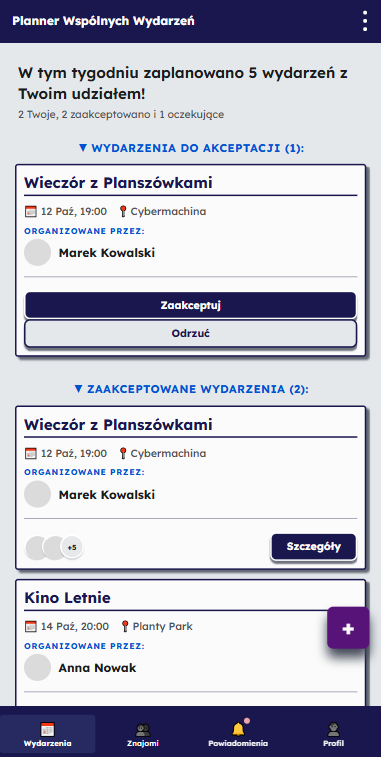
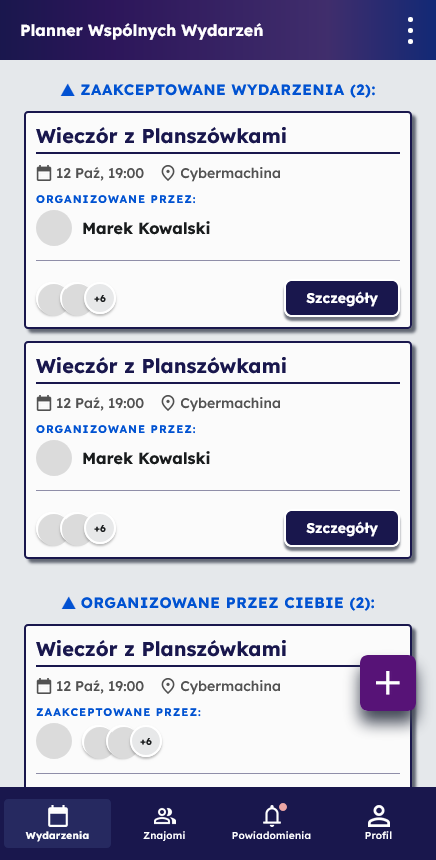
updated readme and minor changes

diff --git a/src/screens/auth/RegisterScreen.tsx b/src/screens/auth/RegisterScreen.tsx
@@ -99,6 +99,9 @@ export default function RegisterScreen({ navigation }: Props) {
                     placeholder="••••••••"
                     isPassword
                   />
+                  <Text style={styles.passwordHint}>
+                    Hasło musi zawierać co najmniej 1 dużą literę, cyfrę i znak specjalny.
+                  </Text>
                   <Input
                     label="Potwierdź hasło"
                     value={confirmPassword}
@@ -224,6 +227,13 @@ const styles = StyleSheet.create({
     elevation: 4,
   },
   form: { gap: 24 },
+  passwordHint: {
+    marginTop: -14,
+    fontFamily: Fonts.regular,
+    fontSize: 12,
+    color: Colors.mainGraySecondary,
+    lineHeight: 17,
+  },
   actionButton: {
     backgroundColor: Colors.purpleAccent,
     borderRadius: 6,

diff --git a/src/screens/profile/ChangePasswordScreen.tsx b/src/screens/profile/ChangePasswordScreen.tsx
@@ -53,6 +53,9 @@ export default function ChangePasswordScreen({ navigation }: Props) {
             placeholder="••••••••"
             isPassword
           />
+          <Text style={styles.passwordHint}>
+            Hasło musi zawierać co najmniej 1 dużą literę, cyfrę i znak specjalny.
+          </Text>
           <SettingsField
             label="Potwierdź nowe hasło"
             icon="shield"
@@ -83,5 +86,12 @@ const styles = StyleSheet.create({
     color: Colors.black,
     lineHeight: 31,
     marginBottom: 10,
+  },
+  passwordHint: {
+    marginTop: -16,
+    fontFamily: Fonts.regular,
+    fontSize: 12,
+    color: Colors.mainGraySecondary,
+    lineHeight: 17,
   },
 });

diff --git a/README.md b/README.md
@@ -1,30 +1,38 @@
 # EventPlanner
 
-Aplikacja mobilna do organizowania wspólnych spotkań ze znajomymi.  
-Projekt został wykonany w React Native z wykorzystaniem Firebase Authentication oraz Firebase Analytics.
+Aplikacja do planowania wspólnych wyjść ze znajomymi. Pozwala tworzyć wydarzenia, zapraszać uczestników, ustalać szczegóły spotkania przez ankiety oraz prowadzić rozmowę w czacie wydarzenia.
+
+Projekt został wykonany w React Native i Expo z wykorzystaniem React Navigation, Firebase Authentication oraz Firebase Analytics.
 
 ---
 
 # Funkcjonalności
 
-- tworzenie wydarzeń,
-- zarządzanie wydarzeniami,
-- system zaproszeń,
-- głosowania dotyczące miejsca i terminu,
-- obsługa uczestników wydarzenia,
-- powiadomienia w aplikacji,
-- historia wydarzeń,
-- logowanie użytkownika.
+- logowanie i rejestracja użytkownika,
+- dashboard z wydarzeniami do akceptacji, zaakceptowanymi i organizowanymi przez użytkownika,
+- tworzenie i edycja wydarzeń,
+- odwoływanie wydarzenia lub rezygnacja z udziału,
+- zapraszanie znajomych i list znajomych,
+- szczegóły wydarzenia z datą, rolą, lokalizacją, mapą, ankietą i uczestnikami,
+- planowanie wydarzenia przez głosowania i kontrpropozycje,
+- czat wydarzenia z wiadomościami, ankietą i zdjęciami,
+- ekran znajomych, list znajomych i sugerowanych kontaktów,
+- powiadomienia o zaproszeniach, zmianach planu, wynikach głosowań i odwołanych wydarzeniach,
+- profil użytkownika z informacjami, statystykami i historią,
+- ustawienia konta, powiadomień push, danych osobowych, e-maila i hasła.
 
 ---
 
 # Technologie
 
-- React Native
+- Expo
 - TypeScript
+- React Native
+- React Native Web
 - React Navigation
 - Firebase Authentication
 - Firebase Analytics
+- Expo Google Fonts
 - Context API
 - StyleSheet
 
@@ -33,38 +41,70 @@ Projekt został wykonany w React Native z wykorzystaniem Firebase Authentication
 # Struktura projektu
 
 ```bash
-src/
-├── components/
-│   └── common/
-│       ├── BottomNavBar.tsx
-│       ├── Button.tsx
-│       ├── EventCard.tsx
-│       ├── Input.tsx
-│       └── Navbar.tsx
+EventPlanner/
+├── App.tsx
+├── app.json
+├── index.ts
+├── package.json
+├── tsconfig.json
+├── google-services.json
 │
-├── context/
-│   ├── EventsContext.tsx
-│   └── FriendsContext.tsx
+├── assets/
+│   ├── icons/
+│   ├── images/
+│   └── screens/
 │
-├── data/
-│   ├── mockEvents.ts
-│   └── mockFriends.ts
+├── scripts/
 │
-├── navigation/
-│   ├── AuthNavigator.tsx
-│   ├── EventsNavigator.tsx
-│   ├── FriendsNavigator.tsx
-│   ├── MainNavigator.tsx
-│   ├── ProfileNavigator.tsx
-│   └── index.tsx
-│
-├── screens/
-│   ├── auth/
-│   ├── dashboard/
-│   ├── events/
-│   ├── friends/
-│   ├── notifications/
-│   └── profile/
+└── src/
+    ├── firebaseConfig.ts
+    │
+    ├── components/
+    │   ├── common/
+    │   │   ├── AppIcon.tsx
+    │   │   ├── BottomNavBar.tsx
+    │   │   ├── Button.tsx
+    │   │   ├── EventCard.tsx
+    │   │   ├── GradientSurface.tsx
+    │   │   ├── Input.tsx
+    │   │   └── Navbar.tsx
+    │   ├── friends/
+    │   │   └── FriendsUi.tsx
+    │   └── profile/
+    │       └── SettingsFormControls.tsx
+    │
+    ├── context/
+    │   ├── EventsContext.tsx
+    │   └── FriendsContext.tsx
+    │
+    ├── data/
+    │   ├── mockEvents.ts
+    │   └── mockFriends.ts
+    │
+    ├── navigation/
+    │   ├── AuthNavigator.tsx
+    │   ├── EventsNavigator.tsx
+    │   ├── FriendsNavigator.tsx
+    │   ├── MainNavigator.tsx
+    │   ├── ProfileNavigator.tsx
+    │   └── index.tsx
+    │
+    ├── screens/
+    │   ├── auth/
+    │   ├── dashboard/
+    │   ├── events/
+    │   ├── friends/
+    │   ├── notifications/
+    │   └── profile/
+    │
+    ├── services/
+    │   ├── analytics.ts
+    │   ├── analytics.web.ts
+    │   └── auth.ts
+    │
+    └── theme/
+        ├── colors.ts
+        └── typography.ts
 ```
 
 ---
@@ -75,24 +115,22 @@ Projekt został podzielony na moduły zgodnie z dobrymi praktykami React Native.
 
 ## Components
 
-Folder `components/common` zawiera reużywalne komponenty UI wykorzystywane w wielu ekranach aplikacji:
+Folder `components` zawiera reużywalne elementy interfejsu:
 
-- `Button`,
-- `Input`,
-- `Navbar`,
-- `BottomNavBar`,
-- `EventCard`.
+- `components/common` - wspólne komponenty UI: `AppIcon`, `BottomNavBar`, `Button`, `EventCard`, `GradientSurface`, `Input`, `Navbar`,
+- `components/friends` - elementy list znajomych i zapraszania,
+- `components/profile` - kontrolki formularzy w ustawieniach profilu.
 
 ## Screens
 
-Folder `screens` zawiera główne widoki aplikacji:
+Folder `screens` zawiera widoki aplikacji pogrupowane według głównych sekcji:
 
-- autoryzacja,
-- dashboard,
-- wydarzenia,
-- znajomi,
-- powiadomienia,
-- profil.
+- `auth` - logowanie i rejestracja,
+- `dashboard` - lista wydarzeń użytkownika,
+- `events` - tworzenie, edycja, szczegóły, planowanie, czat i historia wydarzeń,
+- `friends` - znajomi, listy znajomych i zapraszanie,
+- `notifications` - powiadomienia,
+- `profile` - profil, ustawienia i formularze zmiany danych.
 
 ## Navigation
 
@@ -105,6 +143,8 @@ W projekcie zastosowano osobne navigatory dla głównych sekcji:
 - `EventsNavigator`,
 - `FriendsNavigator`,
 - `ProfileNavigator`.
+
+Dolny pasek nawigacji prowadzi do dashboardu wydarzeń, znajomych, powiadomień oraz profilu użytkownika. Menu z trzema kropkami prowadzi do ustawień.
 
 ## Context API
 
@@ -120,6 +160,18 @@ Folder `data` zawiera dane testowe wykorzystywane podczas developmentu aplikacji
 - `mockEvents`,
 - `mockFriends`.
 
+## Services
+
+Folder `services` zawiera warstwę integracji z usługami zewnętrznymi:
+
+- `auth` - obsługa logowania, rejestracji i wylogowania,
+- `analytics` - zdarzenia Firebase Analytics dla aplikacji mobilnej,
+- `analytics.web` - bezpieczne pomijanie natywnego Analytics podczas uruchamiania wersji webowej.
+
+## Theme i assets
+
+Folder `theme` zawiera współdzielone kolory i typografię. Folder `assets` przechowuje ikony SVG/PNG z projektu, obrazy używane w ekranach oraz screeny aplikacji wykorzystywane w README.
+
 ---
 
 # Nawigacja aplikacji
@@ -131,10 +183,10 @@ Widoki zostały podzielone na osobne sekcje nawigacyjne.
 |---|---|
 | Auth | logowanie i rejestracja użytkownika |
 | Dashboard | ekran główny z listą wydarzeń |
-| Events | szczegóły wydarzeń i zarządzanie wydarzeniami |
-| Friends | lista znajomych i grupy znajomych |
+| Events | tworzenie, edycja, szczegóły, planowanie i czat wydarzenia |
+| Friends | lista znajomych, listy znajomych i zapraszanie uczestników |
 | Notifications | powiadomienia użytkownika |
-| Profile | profil użytkownika i ustawienia |
+| Profile | profil użytkownika, historia i ustawienia konta |
 
 ---
 
@@ -145,6 +197,7 @@ Aplikacja wykorzystuje Firebase Authentication.
 W projekcie zaimplementowano:
 
 - logowanie użytkownika,
+- rejestrację konta,
 - obsługę konta przez Email/Password,
 - wylogowanie użytkownika,
 - przechowywanie stanu zalogowania,
@@ -165,6 +218,8 @@ W projekcie zaimplementowano:
 # Firebase Analytics
 
 Projekt zawiera integrację Firebase Analytics umożliwiającą monitorowanie aktywności użytkownika w aplikacji mobilnej.
+
+W wersji webowej używany jest osobny plik `analytics.web.ts`, dzięki któremu aplikacja może uruchamiać się w przeglądarce bez natywnego modułu Firebase Analytics.
 
 Rejestrowane zdarzenia:
 
@@ -192,17 +247,49 @@ Rejestrowane zdarzenia:
 
 ![Login](./assets/screens/login.png)
 
+## Rejestracja
+
+![Sign up](<./assets/screens/sign up.png>)
+
 ## Dashboard
 
 ![Dashboard](./assets/screens/dashboard.png)
+
+## Nowe wydarzenie
+
+![New event](<./assets/screens/new event.png>)
 
 ## Widok wydarzenia
 
 ![Event](./assets/screens/event.png)
 
+## Szczegóły wydarzenia
+
+![Event details](./assets/screens/details_of_event.png)
+
+## Planowanie wydarzenia
+
+![Event planning](./assets/screens/event_planning.png)
+
+## Czat wydarzenia
+
+![Event chat](./assets/screens/event_chat.png)
+
+## Znajomi
+
+![Friends](./assets/screens/friends.png)
+
+## Powiadomienia
+
+![Notifications](./assets/screens/notifications.png)
+
 ## Profil
 
 ![Profile](./assets/screens/profile.png)
+
+## Ustawienia
+
+![Settings](./assets/screens/settings.png)
 
 ---
 
@@ -225,6 +312,8 @@ npm start
 ```bash
 npm run web
 ```
+
+Projekt nie zawiera skryptu `npm run dev`; do pracy w przeglądarce należy używać `npm run web`.
 
 ---
 
